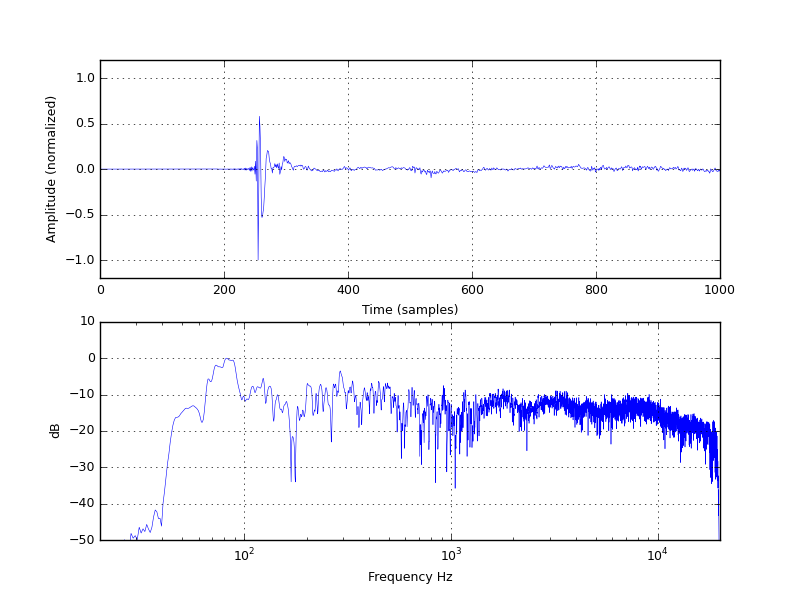
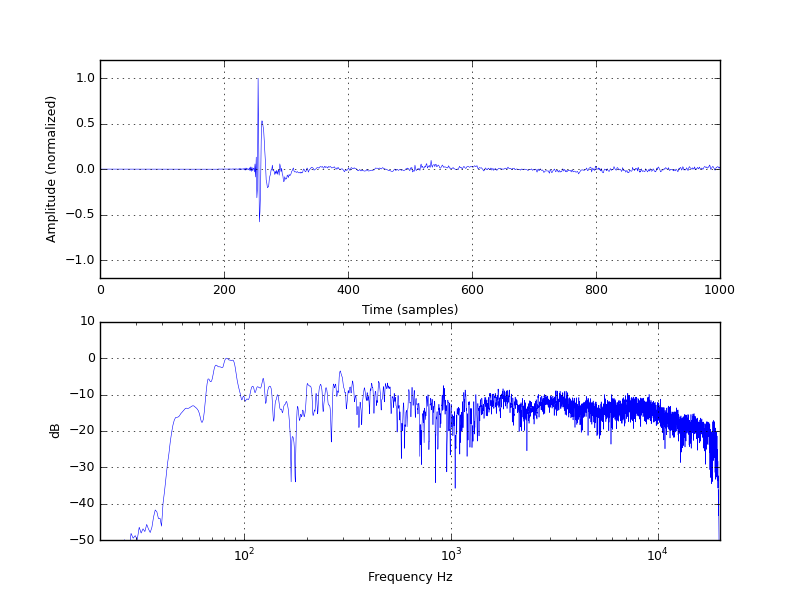
Add files via upload

Changed region(s): [[0.3125, 0.18, 0.9062, 0.39]]

diff --git a/tools/pca_analysis.py b/tools/pca_analysis.py
@@ -49,8 +49,11 @@ def PCA(DataFileList, PCA_dir, analysis_dir):
         ax2.set_xlabel("Frequency Hz", fontsize = 9)
         ax2.set_ylabel("dB", fontsize = 9)
         ax2.grid(True)
-        
-        ax1.plot(numpy.linspace(0, len(DataArray[i]), len(DataArray[i])),DataArray[i]/numpy.abs(DataArray[i]).max(),linewidth=0.4)
+
+        if DataArray[i].max() == numpy.abs(DataArray[i]).max():
+            ax1.plot(numpy.linspace(0, len(DataArray[i]), len(DataArray[i])),DataArray[i]/numpy.abs(DataArray[i]).max(),linewidth=0.4)
+        else:
+            ax1.plot(numpy.linspace(0, len(DataArray[i]), len(DataArray[i])),-1.0*DataArray[i]/numpy.abs(DataArray[i]).max(),linewidth=0.4)        
         ax1.set_xlim(xmin=0,xmax=1000)
         ax1.set_ylim(ymin=-1.2,ymax=1.2)
         ax1.tick_params(axis='x', labelsize=9)
@@ -79,7 +82,10 @@ def PCA(DataFileList, PCA_dir, analysis_dir):
     maxvalue = 0
     for i in range(Size):
         maxvalue = max(maxvalue,max(ResultArray[i]))
-        pyDRC.WriteSignal('%s/PCA_%d.wav'%(PCA_dir, i+1),numpy.concatenate((numpy.zeros(len(ResultArray[i])),ResultArray[i])),0,2*len(ResultArray[i]), SampleRate,'F')
+        if ResultArray[0].max() == numpy.abs(ResultArray[0]).max():
+            pyDRC.WriteSignal('%s/PCA_%d.wav'%(PCA_dir, i+1),numpy.concatenate((numpy.zeros(len(ResultArray[i])),ResultArray[i])),0,2*len(ResultArray[i]), SampleRate,'F')
+        else:
+            pyDRC.WriteSignal('%s/PCA_%d.wav'%(PCA_dir, i+1),numpy.concatenate((numpy.zeros(len(ResultArray[i])),-1.0*ResultArray[i])),0,2*len(ResultArray[i]), SampleRate,'F')
     for i in range(Size):
         ResultArray[i] /= (2*maxvalue)
         plt.subplot(330+i+1)
@@ -102,8 +108,11 @@ def PCA(DataFileList, PCA_dir, analysis_dir):
     ax2.set_xlabel("Frequency Hz", fontsize = 9)
     ax2.set_ylabel("dB", fontsize = 9)
     ax2.grid(True)
-    
-    ax1.plot(numpy.linspace(0, len(ResultArray[0]), len(ResultArray[0])),ResultArray[0]/numpy.abs(ResultArray[0]).max(),linewidth=0.4)
+
+    if ResultArray[0].max() == numpy.abs(ResultArray[0]).max():
+        ax1.plot(numpy.linspace(0, len(ResultArray[0]), len(ResultArray[0])),ResultArray[0]/numpy.abs(ResultArray[0]).max(),linewidth=0.4)
+    else:
+        ax1.plot(numpy.linspace(0, len(ResultArray[0]), len(ResultArray[0])),-1.*ResultArray[0]/numpy.abs(ResultArray[0]).max(),linewidth=0.4)
     ax1.set_xlim(xmin=0,xmax=1000)
     ax1.set_ylim(ymin=-1.2,ymax=1.2)
     ax1.tick_params(axis='x', labelsize=9)
@@ -112,7 +121,7 @@ def PCA(DataFileList, PCA_dir, analysis_dir):
     ax1.set_ylabel("Amplitude (normalized)", fontsize = 9)
     ax1.grid(True)
     plt.savefig("%s/Spectrum_PCA_principal.png"%(analysis_dir))
-    pyDRC.WriteSignal('%s/filtered_data__%s.wav'%(analysis_dir,DataFileList[i].split("/")[-1]),DataArray[i],0,dataLength,SampleRate,'F')
+       
     
 def main():
     impulse_dir ="."
